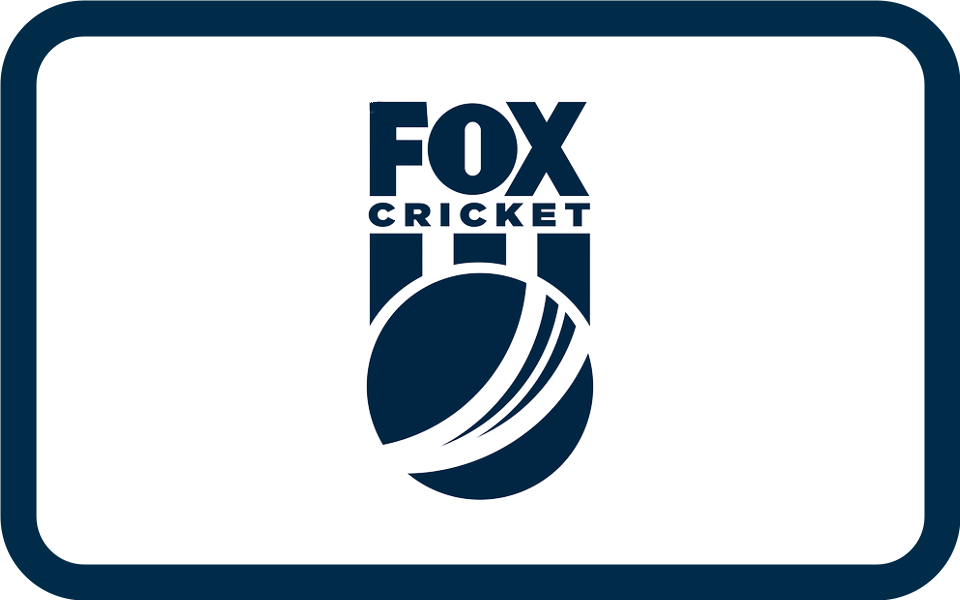
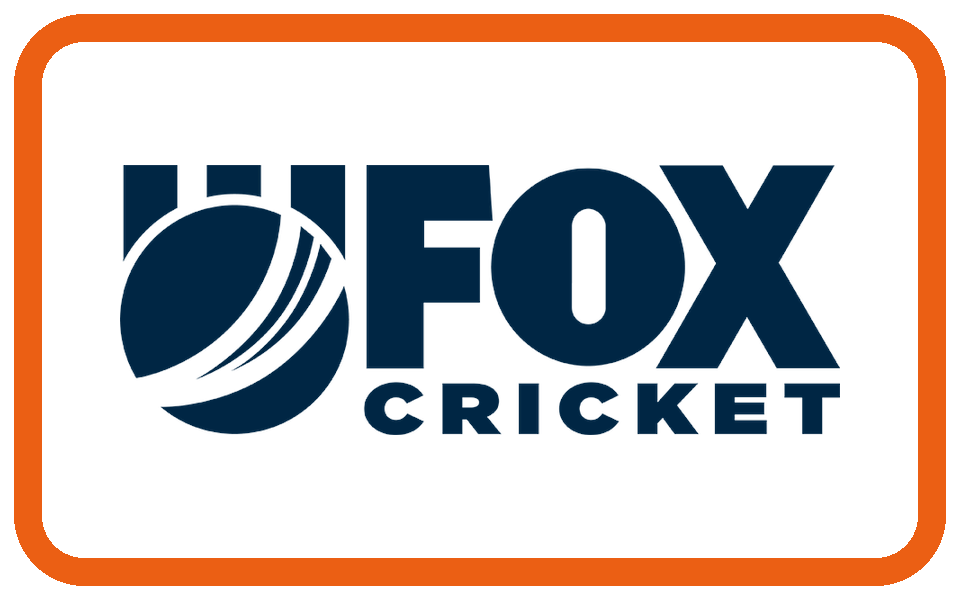
Add Fox Cricket HD at card 6 next to Sky Sports Cricket HD

diff --git a/channels_data.js b/channels_data.js
@@ -1796,6 +1796,17 @@ const CHANNELS_DATA = [
     "subtitle": "Live Cricket & The Ashes \u2022 1080p"
   },
   {
+    "banner": "https://iili.io/ofyK6cQ.png",
+    "category": "SPORTS",
+    "fallbackUrl": "http://main.light-ott.net/play/live.php?mac=00:1A:79:1D:12:35&stream=809389&extension=m3u8",
+    "id": "foxcricket",
+    "name": "Fox Cricket HD",
+    "primaryUrl": "http://sewv654wfcsdwfi87fwvgbngh.siauliairsavlt.pw/iptv/VCQ4ADX96VH4G8PY7URBWRQU/19146/index.m3u8",
+    "quality": "720p HD",
+    "subCategory": "",
+    "subtitle": "Australia & Global Cricket \u2022 720p HD"
+  },
+  {
     "banner": "banner_willow",
     "category": "SPORTS",
     "fallbackUrl": "https://amg01269-amg01269c1-sportstribal-emea-5204.playouts.now.amagi.tv/playlist.m3u8",
